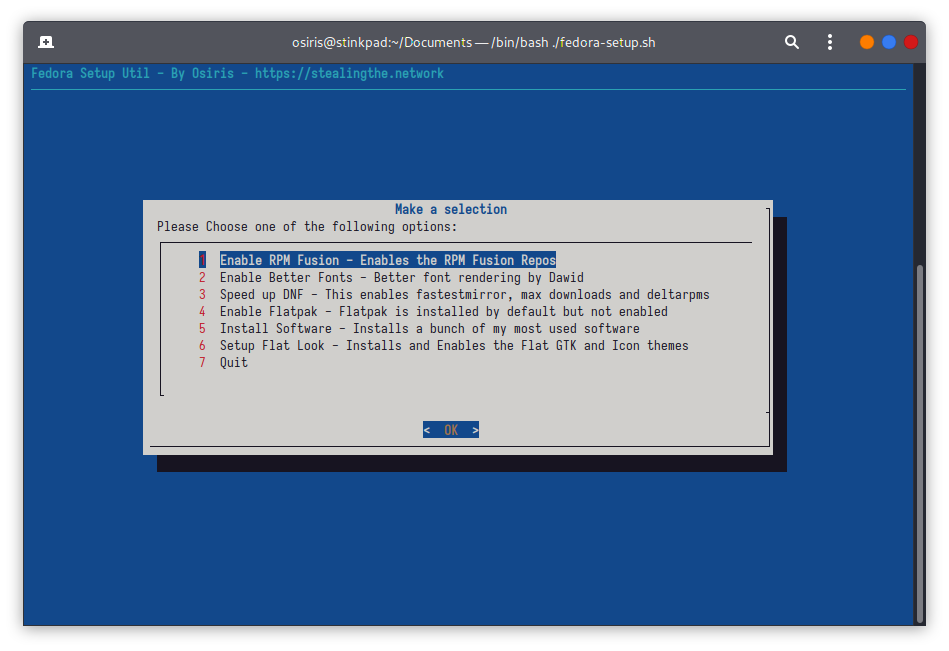
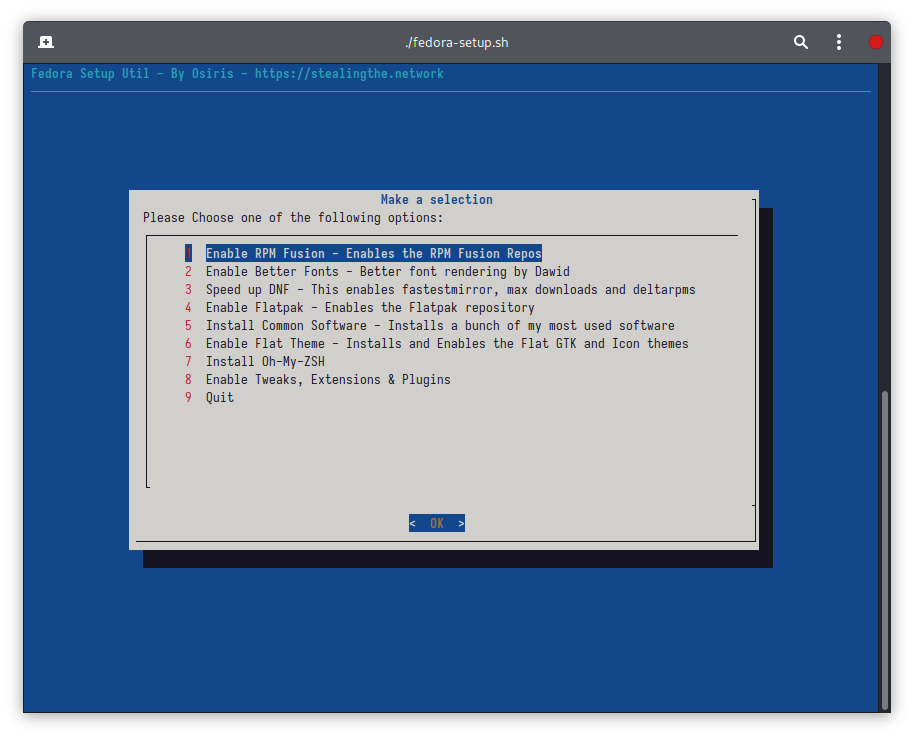
Quick update
Screenshot and Readme update.

Changed region(s): [[0.1225, 0.2458, 0.8578, 0.768], [0.0306, 0.0307, 0.9803, 0.9831]]

diff --git a/README.md b/README.md
@@ -1,6 +1,86 @@
 # Fedora-Setup
+
 Description: Post install setup script for Fedora Linux
 
-This script is written in Bash and utilises dialog for a friendlier menu system. Dialog must be installed prior to launching (dnf install dialog).
+This script is written in Bash and utilises dialog for a friendlier menu system. Dialog must be installed for the menu system to work.
+As such, the script will check to see if Dialog is installed if not, it will ask you to install it.
 
 ![Screenshot](fedora-setup-screenshot.png)
+
+## Options
+
+- Enable RPM Fusion
+  
+  - Enables RPM Fusion repositories using the official method from the RPM Fusion website. 
+
+- Enable Better Fonts - Better font rendering by Dawid
+  
+  - "Provides free substitutions for popular proprietary fonts from Microsoft and Apple operating systems.
+    
+    It makes your web browsing more aesthetically pleasing - you won't be seeing DejaVu Sans font on every damn webpage." - [GitHub - silenc3r/fedora-better-fonts: Better looking fonts for Fedora](https://github.com/silenc3r/fedora-better-fonts)
+
+- Speed up DNF
+  
+  - Enables FastestMirror, Max Downloads and Deltarpms
+
+- Enable Flatpak
+  
+  - Whilst Flatpak is enabled by default this option enables the repo
+
+- Install Common Software - Installs a bunch of my most used software
+  
+  -   gnome-extensions-app 
+  
+  - gnome-tweaks 
+  
+  - gnome-shell-extension-appindicator 
+  
+  - vlc 
+  
+  - dropbox 
+  
+  - dnfdragora 
+  
+  - audacious 
+  
+  - mscore-fonts-all 
+  
+  - neofetch 
+  
+  - cmatrix 
+  
+  - p7zip 
+  
+  - unzip 
+  
+  - gparted
+
+- Enable Flat Theme
+  
+  - Installs and Enables the Flat GTK and Icon themes
+    
+    - gnome-shell-extension-user-theme 
+    
+    - paper-icon-theme 
+    
+    - flat-remix-icon-theme 
+    
+    - flat-remix-theme
+
+- Install Oh-My-ZSH
+  
+  - Installs Oh-My-ZSH and Powerline Fonts
+
+- Enable Tweaks, Extensions & Plugins
+  
+  - Installs the sound and video group
+  
+  - gstreamer plugins
+  
+  - 
+
+## Coming soon
+
+- [ ] Install Microsoft Edge Browser (Stable)
+
+- [ ] Install Microsoft Studio Code
